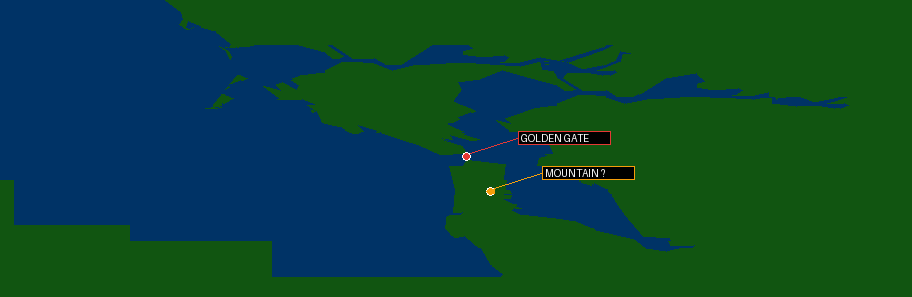
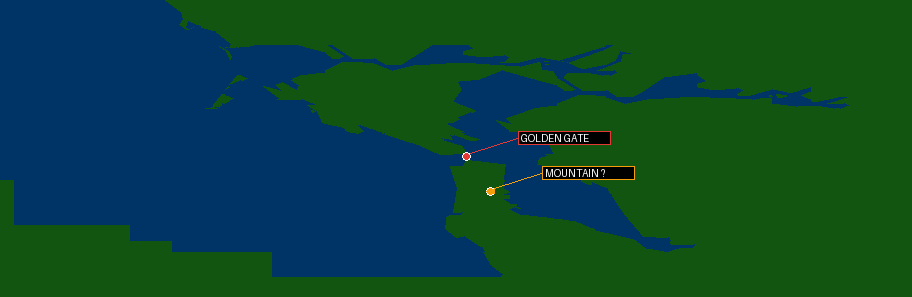
Join run041 M-map vectors

Changed region(s): [[0.1842, 0.7879, 0.307, 0.8485], [0.8289, 0.303, 0.8904, 0.3333]]

diff --git a/scripts/render_m_map_panned_vector_mosaic.py b/scripts/render_m_map_panned_vector_mosaic.py
@@ -17,10 +17,11 @@ LAND, SEA = "#115511", "#003366"
 RUNS = (
     # Normalise at run042's upper-left. run042 = run035 + (130,61),
     # run035 = run037 + (116,16), and run035 = run003 + (142,36).
-    ("run042", ROOT / "build/run042_m_map_projected_polygons/projected_polygons.json", 0, 0, 40),
-    ("run037", ROOT / "build/run037_m_map_projected_polygons/projected_polygons.json", 14, 45, 47),
-    ("run035", ROOT / "build/run035_m_map_projected_polygons/projected_polygons.json", 130, 61, 49),
-    ("run003", ROOT / "build/run003_m_map_projected_polygons/projected_polygons.json", 272, 97, 42),
+    ("run042", ROOT / "build/run042_m_map_projected_polygons/projected_polygons.json", 0, 0, 40, None, None),
+    ("run037", ROOT / "build/run037_m_map_projected_polygons/projected_polygons.json", 14, 45, 47, None, None),
+    ("run035", ROOT / "build/run035_m_map_projected_polygons/projected_polygons.json", 130, 61, 49, None, None),
+    ("run041", ROOT / "build/run041_m_map_projected_polygons/projected_polygons.json", 172, 72, 50, 10, 50),
+    ("run003", ROOT / "build/run003_m_map_projected_polygons/projected_polygons.json", 272, 97, 42, None, None),
 )
 WIDTH, HEIGHT = 912, 297
 ANCHORS = (("GOLDEN GATE", 466, 156.5, "#e53935"), ("MOUNTAIN ?", 490, 191, "#f59e0b"))
@@ -55,8 +56,9 @@ def main() -> None:
     image = Image.new("RGB", (WIDTH, HEIGHT), LAND)
     draw = ImageDraw.Draw(image)
     report_runs = []
-    for name, path, tx, ty, expected in RUNS:
-        polygons = canonical_pass(json.loads(path.read_text(encoding="utf-8"))["polygons"])
+    for name, path, tx, ty, expected, start, count in RUNS:
+        captured = json.loads(path.read_text(encoding="utf-8"))["polygons"]
+        polygons = canonical_pass(captured) if count is None else captured[start:start + count]
         if len(polygons) != expected:
             raise RuntimeError(f"{name}: expected {expected} polygons, got {len(polygons)}")
         for polygon in polygons:
@@ -66,7 +68,8 @@ def main() -> None:
             points = [(x * 2 + tx, y + ty) for x, y in pairs]
             svg.append('<polygon points="' + " ".join(f"{x},{y}" for x, y in points) + f'"><title>{name}: {polygon["context_a5"]}, submission {polygon["submission"]}</title></polygon>')
             draw.polygon(points, fill=SEA)
-        report_runs.append({"name": name, "polygon_capture": str(path), "translation": [tx, ty], "canonical_submissions": len(polygons)})
+        report_runs.append({"name": name, "polygon_capture": str(path), "translation": [tx, ty], "canonical_submissions": len(polygons),
+                            "start_submission": start, "bounded_submissions": count})
     svg.append('</g><g shape-rendering="geometricPrecision" font-family="monospace">')
     for (x1, y1), (x2, y2) in GOLDEN_GATE_LINES:
         svg.append(f'<line x1="{x1}" y1="{y1}" x2="{x2}" y2="{y2}" stroke="#880000" stroke-width="2"/>')
@@ -92,7 +95,7 @@ def main() -> None:
         "landmarks": [{"name": name, "anchor": [x, y]} for name, x, y, _ in ANCHORS],
         "golden_gate_segments": [[list(start), list(end)] for start, end in GOLDEN_GATE_LINES],
         "mountain_triangles": [[list(point) for point in triangle] for triangle in MOUNTAIN_TRIANGLES],
-        "qualification": "The normalized mosaic places run042 at (0,0), run037 at +14,+45, run035 at +130,+61, and run003 at +272,+97 host pixels. The run037/run035 join is 97.9997% agreement across 84,888 water pixels; run035/run042 is 98.4816%, and run003 follows the established +142,+36 relation from run035. Its red Golden Gate vectors are C3559A/C355D2 lines transferred through the red-pixel-validated relation. Its orange Mountain ? triangles are direct run035 C3B6B0 projected polygons; the human-readable label remains a candidate. This is a joined observed coverage view, not absolute global coordinates, a complete world map, or a full terrain-model extraction. Screen-relative grid and state-dependent flight-object symbols are excluded.",
+        "qualification": "The normalized mosaic places run042 at (0,0), run037 at +14,+45, run035 at +130,+61, run041 at +172,+72, and run003 at +272,+97 host pixels. Run041 uses an explicit moving 50-submission bounded pass beginning at collector submission 10. Its run041/run035 join is 98.2697% agreement across 99,866 water pixels and composes with run035/run042. The run037/run035 join is 97.9997% agreement across 84,888 water pixels; run035/run042 is 98.4816%, and run003 follows the established +142,+36 relation from run035. Its red Golden Gate vectors are C3559A/C355D2 lines transferred through the red-pixel-validated relation. Its orange Mountain ? triangles are direct run035 C3B6B0 projected polygons; the human-readable label remains a candidate. This is a joined observed coverage view, not absolute global coordinates, a complete world map, or a full terrain-model extraction. Screen-relative grid and state-dependent flight-object symbols are excluded.",
     }
     report_path.write_text(json.dumps(report, indent=2) + "\n", encoding="utf-8")
     print(json.dumps({"runs": len(report_runs), "svg": str(svg_path), "png": str(png_path)}))

diff --git a/analysis/data/m_map_panned_projected_polygon_mosaic.md b/analysis/data/m_map_panned_projected_polygon_mosaic.md
@@ -4,14 +4,17 @@
 [inspection PNG](../visuals/m_map_panned_projected_polygon_mosaic.png).
 
 This wider view joins the run042 40-polygon, run037 47-polygon, run035
-49-polygon, and run003 42-polygon canonical M-map passes. Every blue shape is a direct `$C4B390`
+49-polygon, bounded moving run041 50-polygon, and run003 42-polygon M-map
+passes. Every blue shape is a direct `$C4B390`
 projected polygon captured immediately before `$C2FF48`; the green base is the
 game’s observed land palette. In the normalized mosaic run042 starts at
-`(0,0)`, run037 is translated by `(14,45)`, run035 by `(130,61)`, and run003
-by `(272,97)` host pixels. The run037/run035 join has 97.9997% blue-water
+`(0,0)`, run037 is translated by `(14,45)`, run035 by `(130,61)`, run041 by
+`(172,72)`, and run003 by `(272,97)` host pixels. The run041/run035 join has
+98.2697% blue-water agreement over 99,866 pixels; the run037/run035 join has 97.9997% blue-water
 agreement over 84,888 pixels, while run035/run042 has 98.4816% over 59,670;
 their measurements are
-[`run037_run035_m_map_pan_comparison.json`](run037_run035_m_map_pan_comparison.json)
+[`run041_run035_m_map_pan_comparison.json`](run041_run035_m_map_pan_comparison.json),
+[`run037_run035_m_map_pan_comparison.json`](run037_run035_m_map_pan_comparison.json),
 and
 [`run035_run042_m_map_pan_comparison.json`](run035_run042_m_map_pan_comparison.json).
 

diff --git a/analysis/data/run041_m_map_projected_polygon_vectors.md b/analysis/data/run041_m_map_projected_polygon_vectors.md
@@ -1,0 +1,16 @@
+# Run041 M-map projected polygon vectors
+
+[Open the source-vector SVG](../visuals/run041_m_map_projected_polygon_vectors.svg)
+or its [inspection PNG](../visuals/run041_m_map_projected_polygon_vectors.png).
+
+From the sealed run041 frame-6000 Golden Gate-approach checkpoint, one M-key
+press reaches a moving map renderer schedule after a ten-submission setup
+prefix. Submissions 10--59 form the explicitly bounded 50-polygon pass used
+here; it agrees with the matching no-input map screen at **109,487 / 111,970
+= 97.7824%** for land/sea pixels.
+
+It joins run035 as `run035(x+42,y+11)=run041(x,y)` with 98.2697% blue-water
+agreement over 99,866 pixels. Composed with the established run035/run042
+join, this places the run041 pass at `(172,72)` in the shared mosaic frame.
+This establishes rendered map-view panning, not global coordinates or an
+absolute terrain map.
